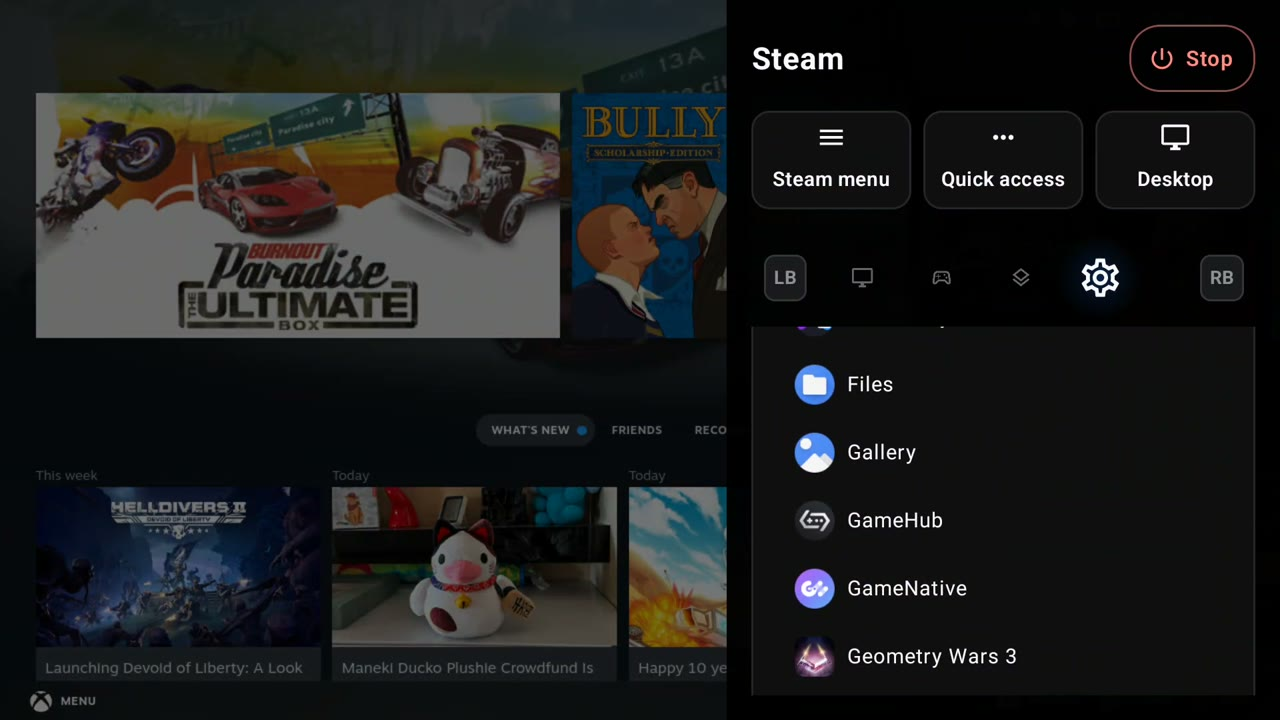
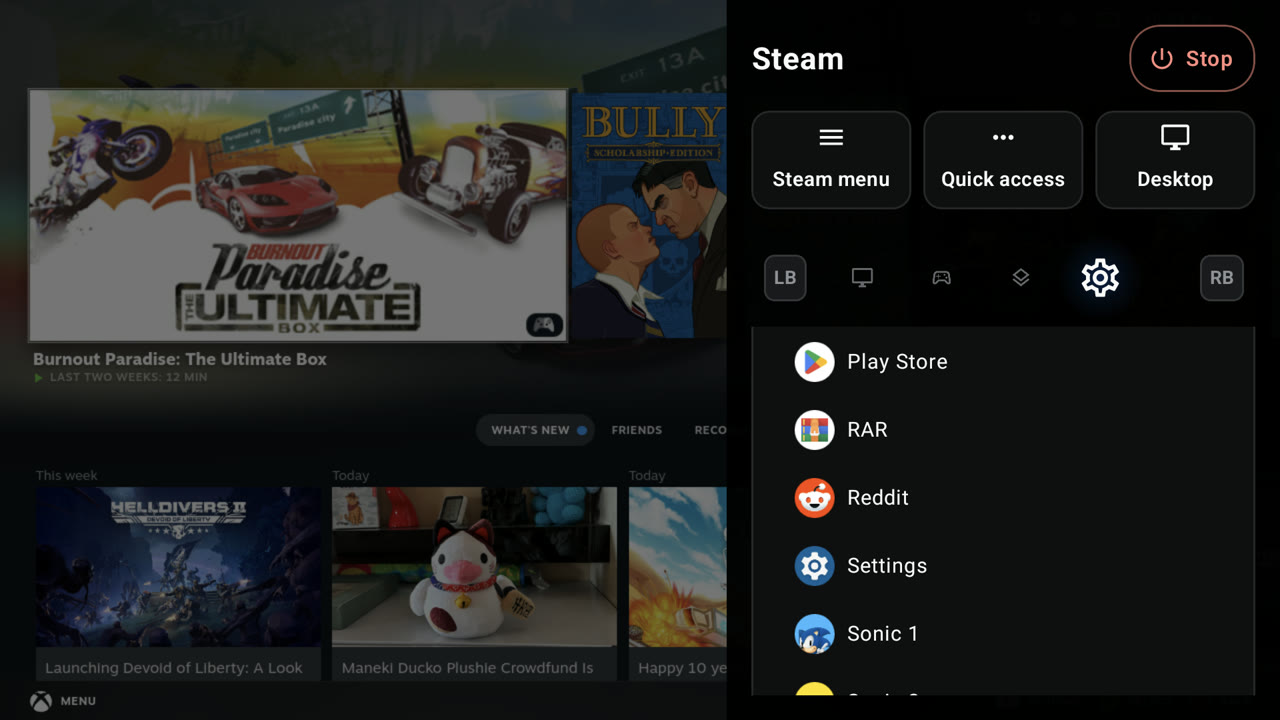
docs: use the session menu's app list for the home app demo

diff --git a/docs/releases/0.2.0.md b/docs/releases/0.2.0.md
@@ -26,10 +26,7 @@ Your Steam library as a capsule wall, and a Games tab with per-game settings.
 ### Your Android home screen
 Set DroidDeck as the Home app and your Android apps live in the launcher too, and in the session menu, so you can open one without leaving your game.
 
-<p>
-<img src="https://raw.githubusercontent.com/Droid-Deck/DroidDeck/main/docs/releases/media/0.2.0/android-apps.gif" width="49%" alt="Opening Sonic from the launcher's Android apps page">
-<img src="https://raw.githubusercontent.com/Droid-Deck/DroidDeck/main/docs/releases/media/0.2.0/drawer-android-apps.jpg" width="49%" alt="Android apps listed in the session menu over Steam">
-</p>
+![Android apps listed in the session menu over Steam](https://raw.githubusercontent.com/Droid-Deck/DroidDeck/main/docs/releases/media/0.2.0/drawer-android-apps.jpg)
 
 ### Made for two screens
 On a dual-screen handheld, launch an Android app on the second screen while Steam keeps the first, or turn the second screen into a keyboard and trackpad, or a Linux terminal.

diff --git a/README.md b/README.md
@@ -22,7 +22,7 @@ Run Valve's native ARM64 Steam client on an Adreno Android device. Steam runs in
 <img src="docs/releases/media/0.2.0/session-drawer.gif" width="49%" alt="Session menu over a game">
 </p>
 <p>
-<img src="docs/releases/media/0.2.0/android-apps.gif" width="49%" alt="Launching an Android app from the launcher">
+<img src="docs/releases/media/0.2.0/drawer-android-apps.jpg" width="49%" alt="Android apps in the session menu over Steam">
 <img src="docs/releases/media/0.2.0/linux-desktop.jpg" width="49%" alt="LXQt desktop">
 </p>
 <p align="center">
